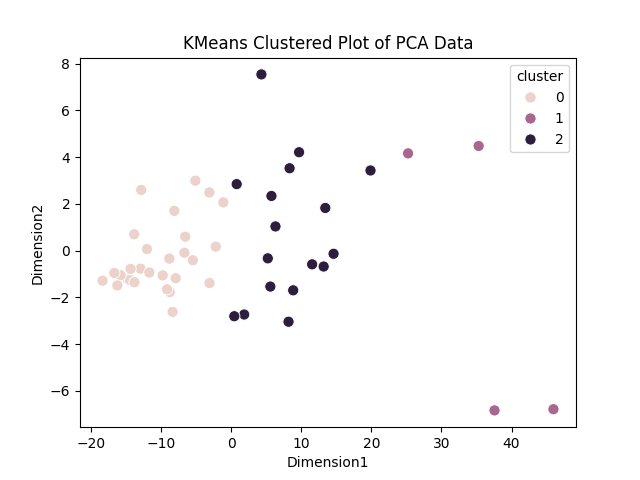
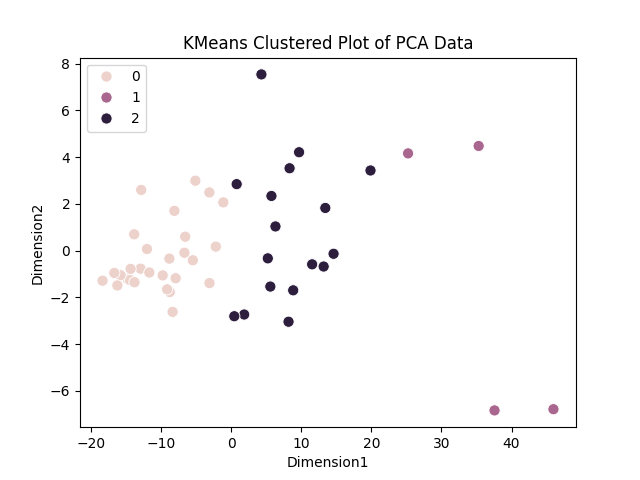
Clustering and united states image

Changed region(s): [[0.8125, 0.125, 0.875, 0.3125], [0.1562, 0.125, 0.2188, 0.2812], [0.875, 0.1875, 0.9062, 0.2188]]

diff --git a/clustering.py b/clustering.py
@@ -7,29 +7,36 @@ pca_data = pd.read_csv("data\pca_Data.csv")
 
 just_data = pca_data.iloc[:, 1:]
 
-# wcss = [] 
-# for i in range(1, 11): 
-#     kmeans = KMeans(n_clusters = i, init = 'k-means++', random_state = 21)
-#     kmeans.fit(just_data) 
-#     wcss.append(kmeans.inertia_)
+wcss = [] 
+for i in range(1, 11): 
+    kmeans = KMeans(n_clusters = i, init = 'k-means++', random_state = 21)
+    kmeans.fit(just_data) 
+    wcss.append(kmeans.inertia_)
 
-# plt.plot(range(1, 11), wcss) #Looks like 3 clusters will do
-# plt.show()
+plt.plot(range(1, 11), wcss) #Looks like 3 clusters will do
+plt.title("Elbow Plot for Clustering")
+plt.xlabel("Clusters")
+plt.ylabel("Inertia")
+plt.savefig("Visuals/Elbow Plot Clusters.png")
+plt.show()
 
-cluster_3 = KMeans(n_clusters = 3, init = 'k-means++', random_state = 21)
+cluster_3 = KMeans(n_clusters = 3, random_state = 21)
 cluster_3.fit(just_data)
 
 pca_data['cluster'] = cluster_3.labels_
 
-# p1 = sns.scatterplot(x = "Dimension1", y = "Dimension2", data = pca_data, s = 65, hue = "cluster")
-# plt.title("KMeans Clustered Plot of PCA Data")
-# plt.savefig("Visuals/pca_clustered_plots.png")
-# plt.show()
+p1 = sns.scatterplot(x = "Dimension1", y = "Dimension2", data = pca_data, s = 65, hue = "cluster")
+plt.title("KMeans Clustered Plot of PCA Data")
+plt.legend(loc = "upper left")
+plt.savefig("Visuals/pca_clustered_plots.png")
+plt.show()
 
 zero_cluster = pca_data[pca_data['cluster'] == 0] #Biggest cluster, seems to be homes that aren't affected as much
 first_cluster = pca_data[pca_data['cluster'] == 1] # Most expensive states
 second_cluster = pca_data[pca_data['cluster'] == 2] # Middle of the road states
 
-print(zero_cluster['States'])
-print(first_cluster['States'])
-print(second_cluster['States'])
+print("Zero Cluster", zero_cluster['States'])
+print("First Cluster", first_cluster['States'])
+print("Second Cluster", second_cluster['States'])
+
+#Generate a country of U.S colored by cluster

diff --git a/README.md b/README.md
@@ -30,4 +30,5 @@ So I found that dummying the data didn't do anything, probably because the value
 - Included a CPI plot over time to see how those values have increased within our time frame.
 
 ### Doing Currently
-- Updating the report with what I have so far. Also generated an elbow plot for the PCA decomposition.
+- Trying to generate a plot of the United States filled in via cluster color
+Use this link https://medium.com/@alex_44314/use-python-geopandas-to-make-a-us-map-with-alaska-and-hawaii-39a9f5c222c6
